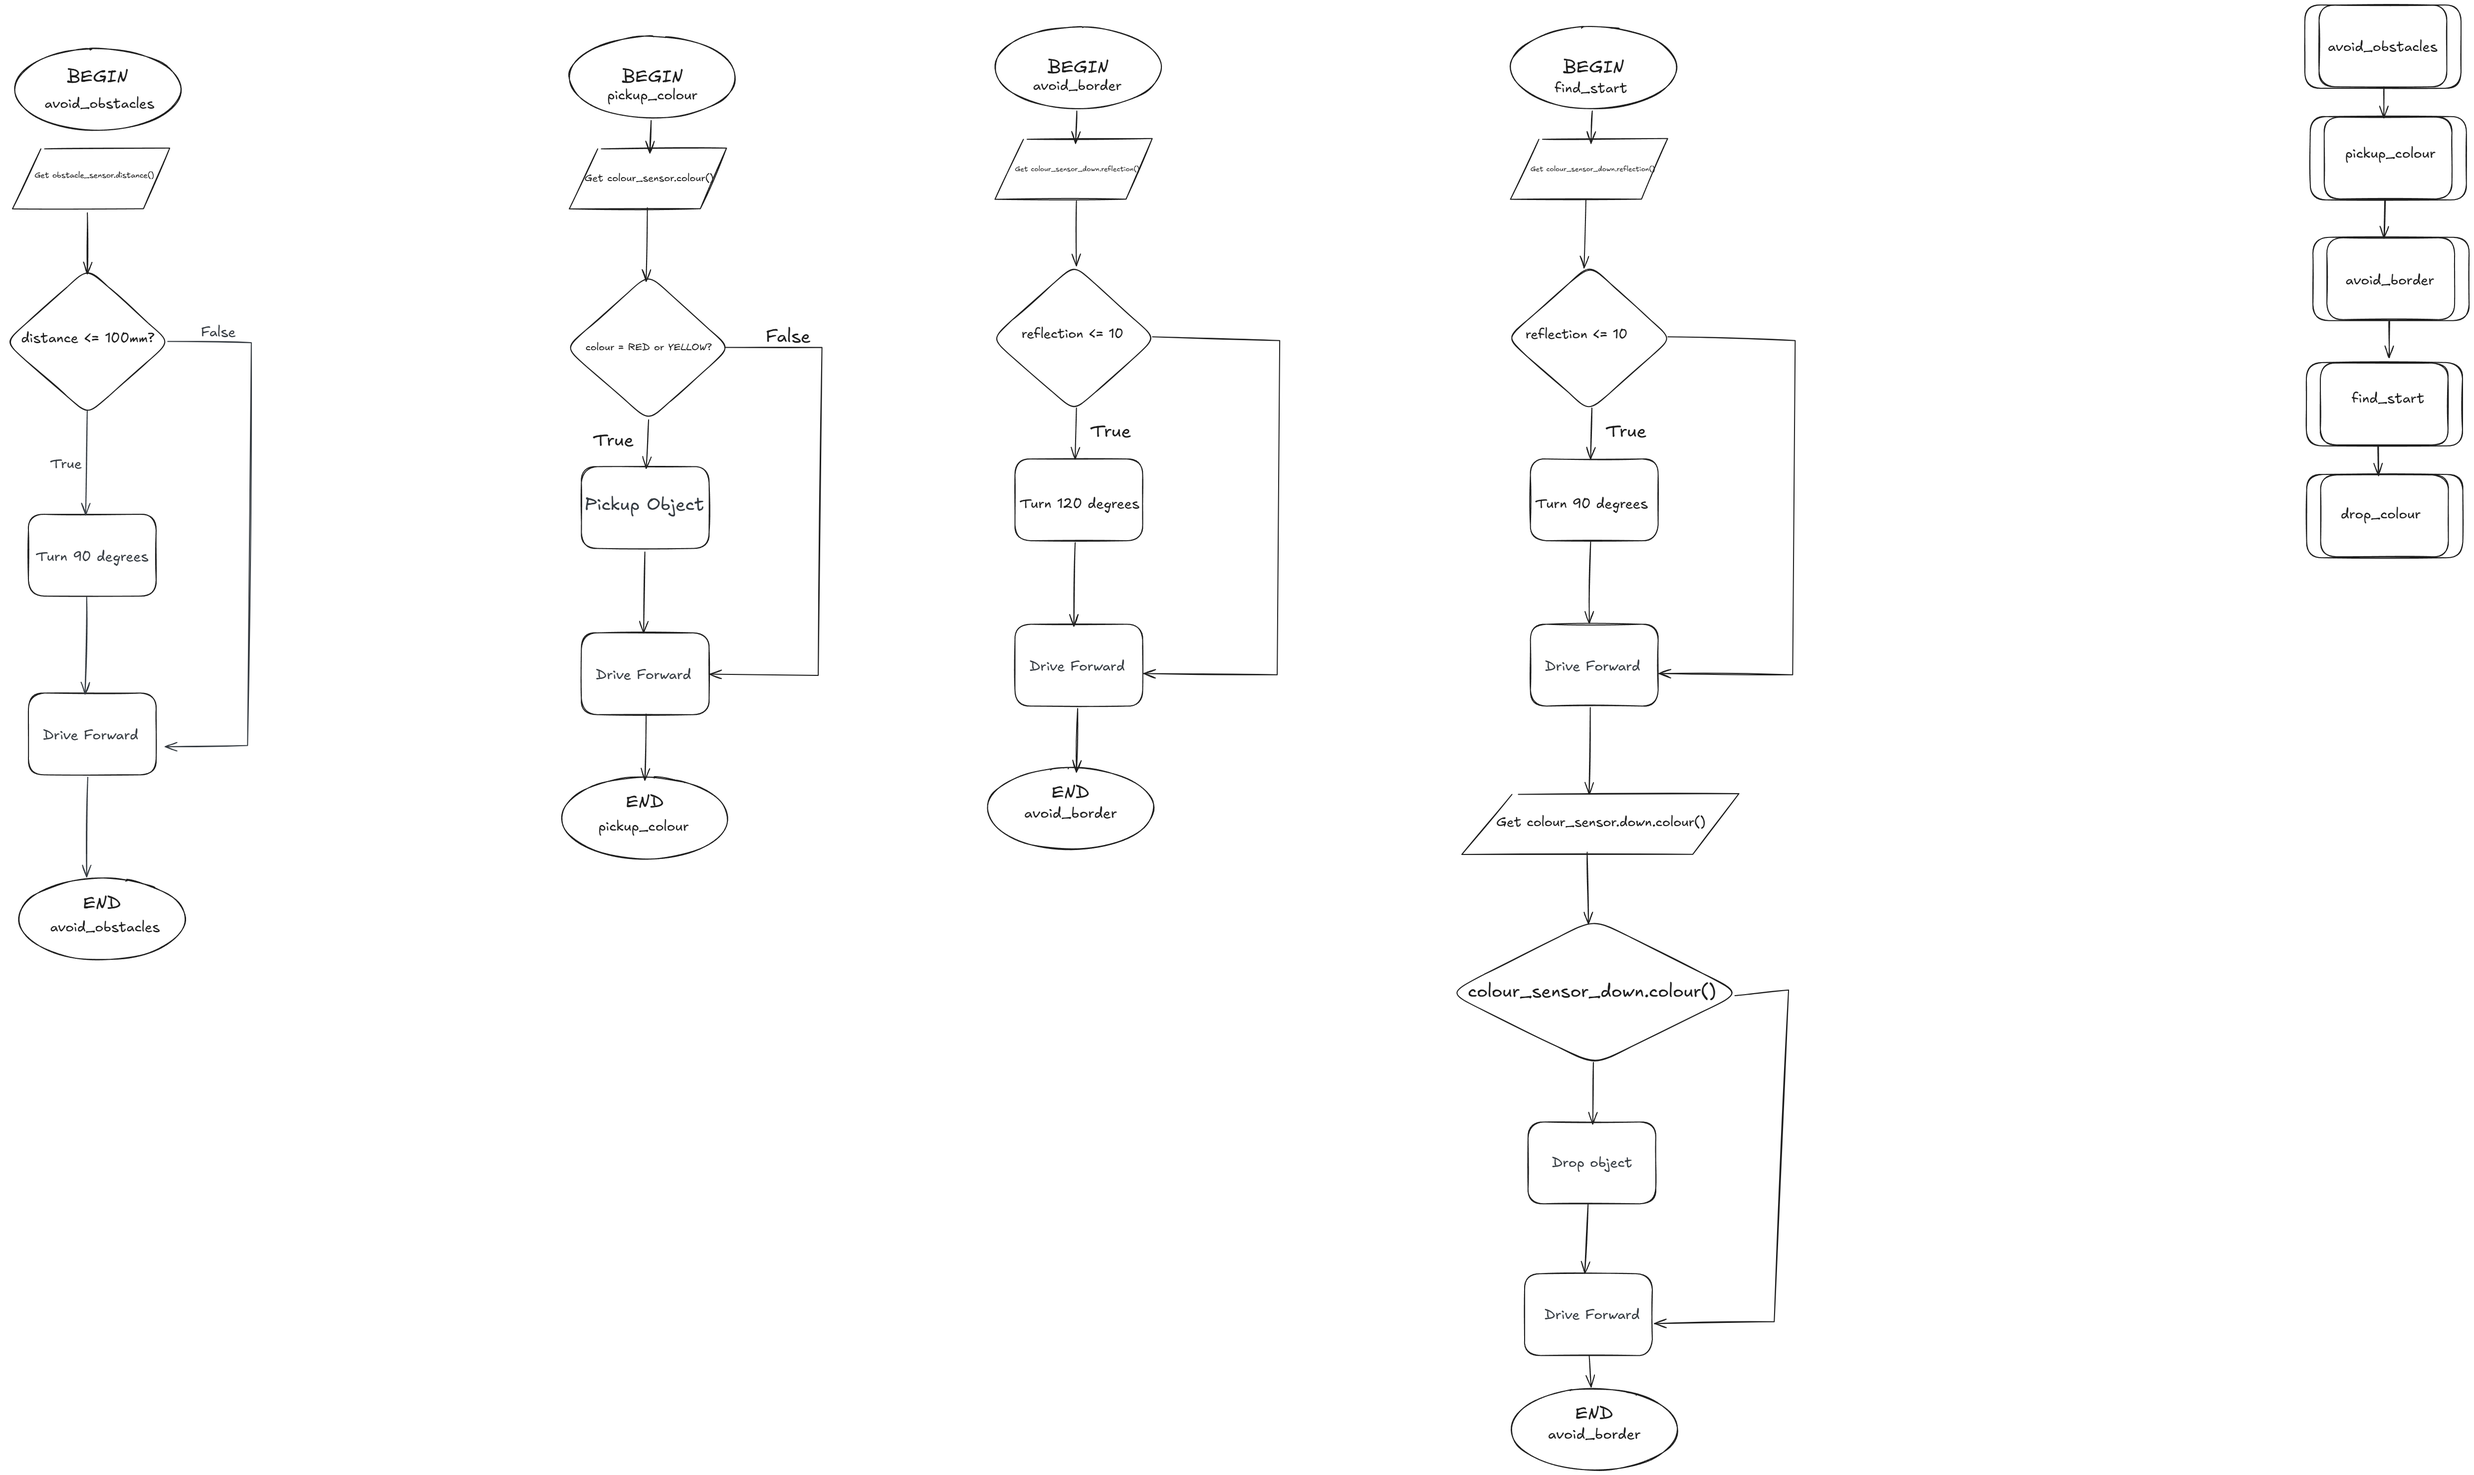
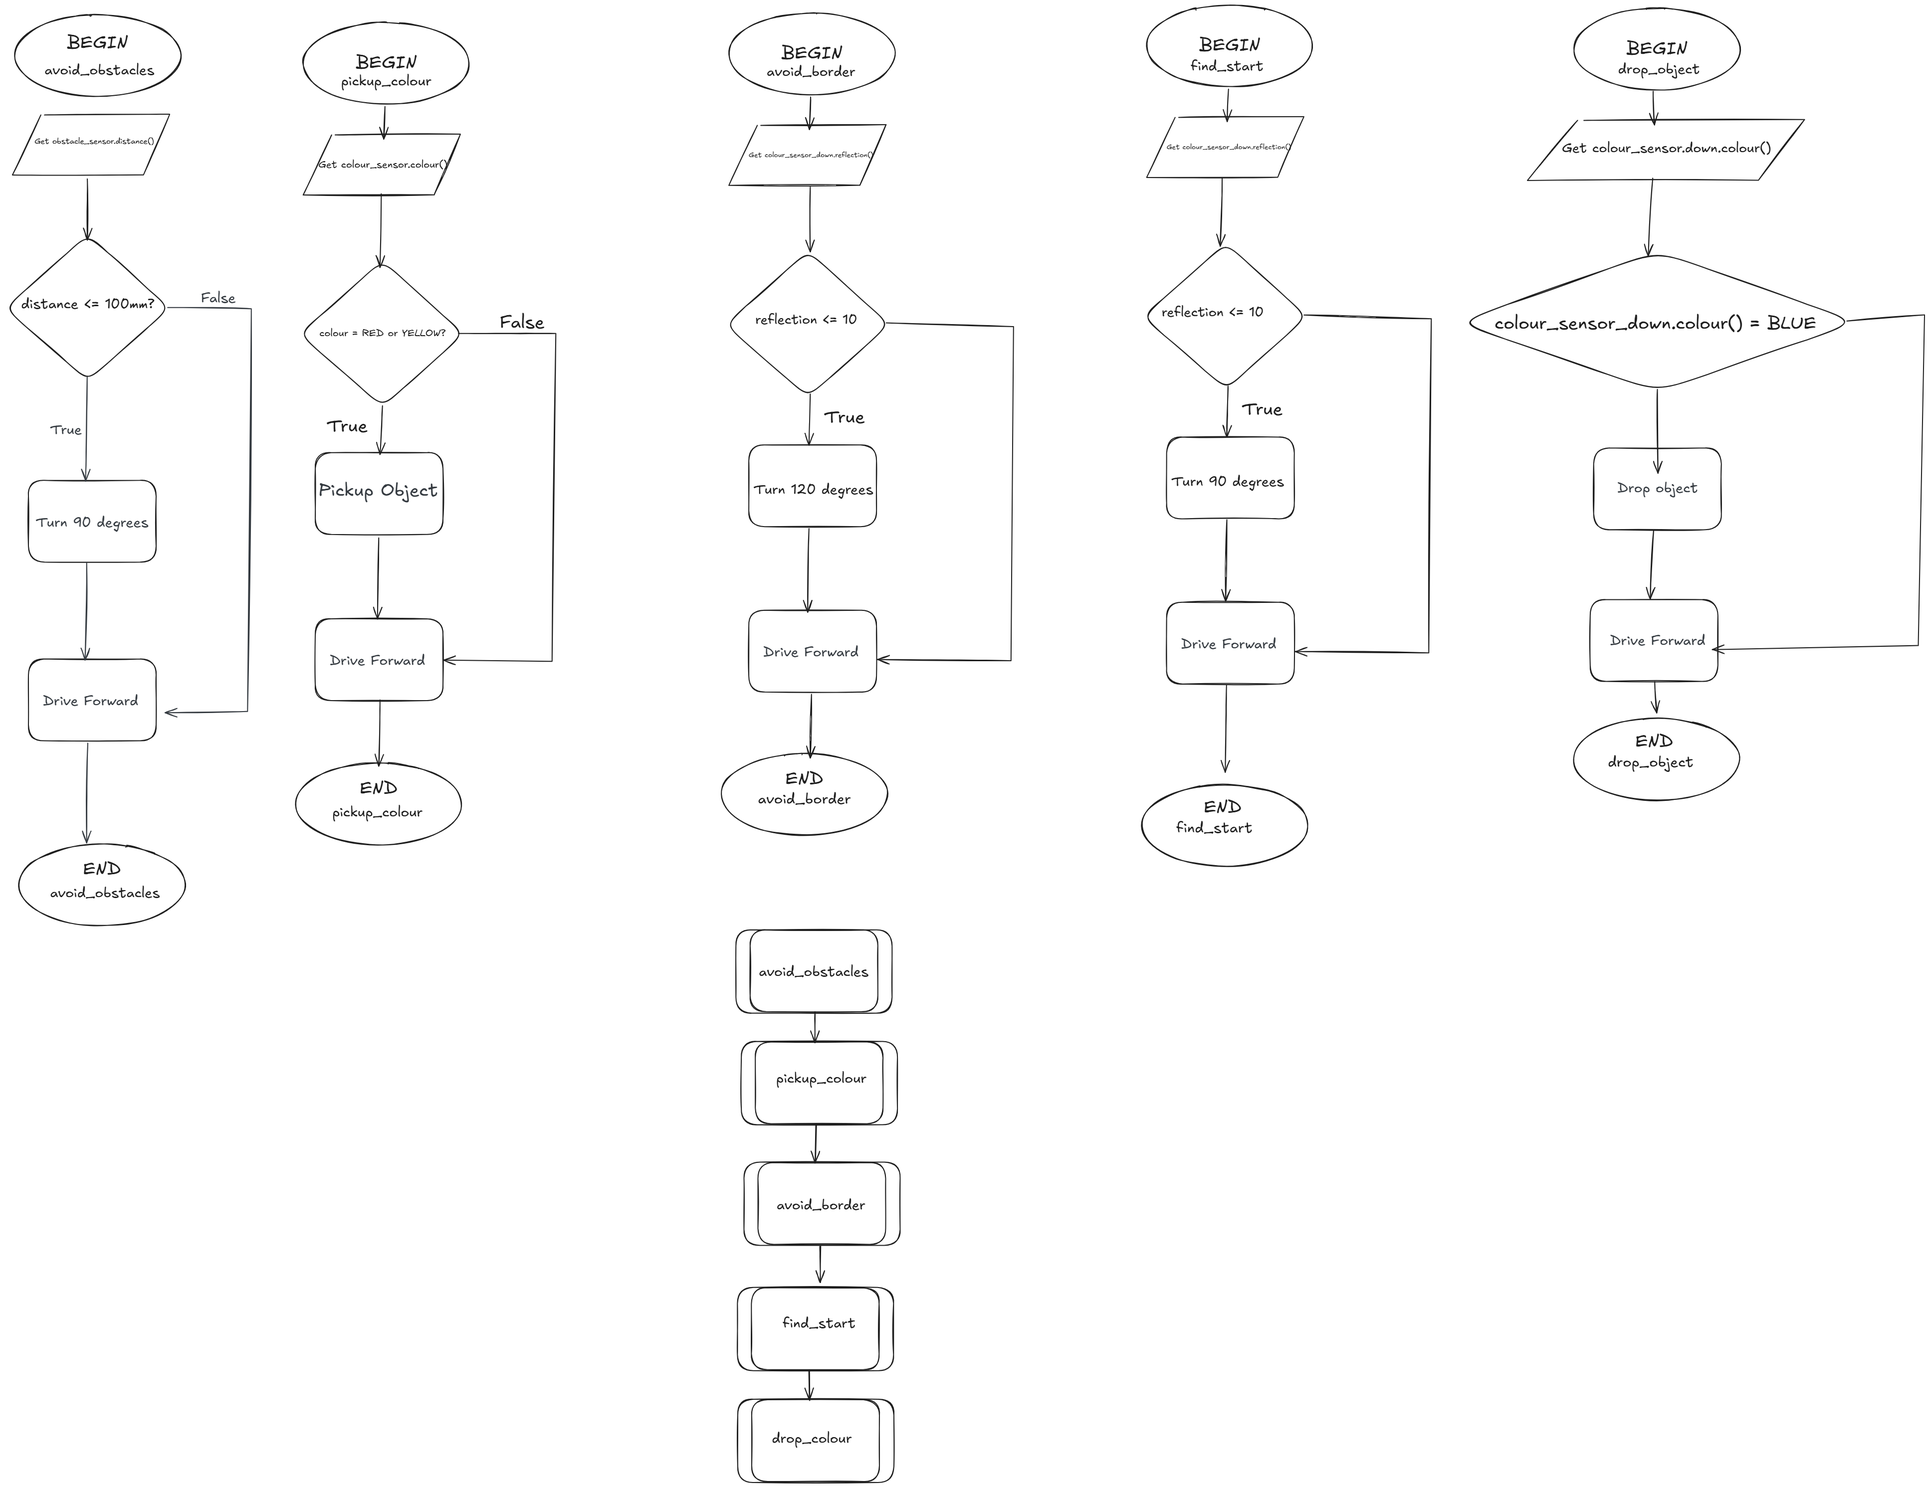
Fixed Subprocess and pseudocode

diff --git a/PROJECT_DEVELOPMENT.md b/PROJECT_DEVELOPMENT.md
@@ -242,7 +242,7 @@ BEGIN avoid_obstacles
 
     ENDIF 
 
-    Drive Foreward
+    Drive Forward
 
 END avoid_obstacles
         
@@ -256,7 +256,18 @@ END avoid_obstacles
 <br>
 
 ```
+BEGIN pickup_colour
+    Get colour_sensor.colour()
 
+    IF colour = RED or YELLOW
+
+        Pickup Object
+
+    ENDIF 
+
+    Drive Forward
+
+END pickup_colour
 ```
 
 </details>
@@ -266,7 +277,18 @@ END avoid_obstacles
 <br>
 
 ```
+BEGIN avoid_border
+    Get colour_sensor_down.reflection()
 
+    IF reflection <= 10
+
+        Turn 120
+
+    ENDIF 
+
+    Drive Forward
+
+END avoid_border
 ```
 
 </details>
@@ -276,7 +298,18 @@ END avoid_obstacles
 <br>
 
 ```
+BEGIN find_start
+    Get colour_sensor_down.reflection()
 
+    IF reflection <= 10
+
+        Turn 90
+
+    ENDIF 
+
+    Drive Forward
+
+END find_start
 ```
 
 </details>
@@ -286,7 +319,18 @@ END avoid_obstacles
 <br>
 
 ```
+BEGIN drop_colour
+    Get colour_sensor_down.colour()
 
+    IF colour_sensor_down.colour = BLUE
+
+        Drop Object
+        
+    ENDIF 
+
+    Drive Forward
+
+END drop_colour
 ```
 
 </details>
